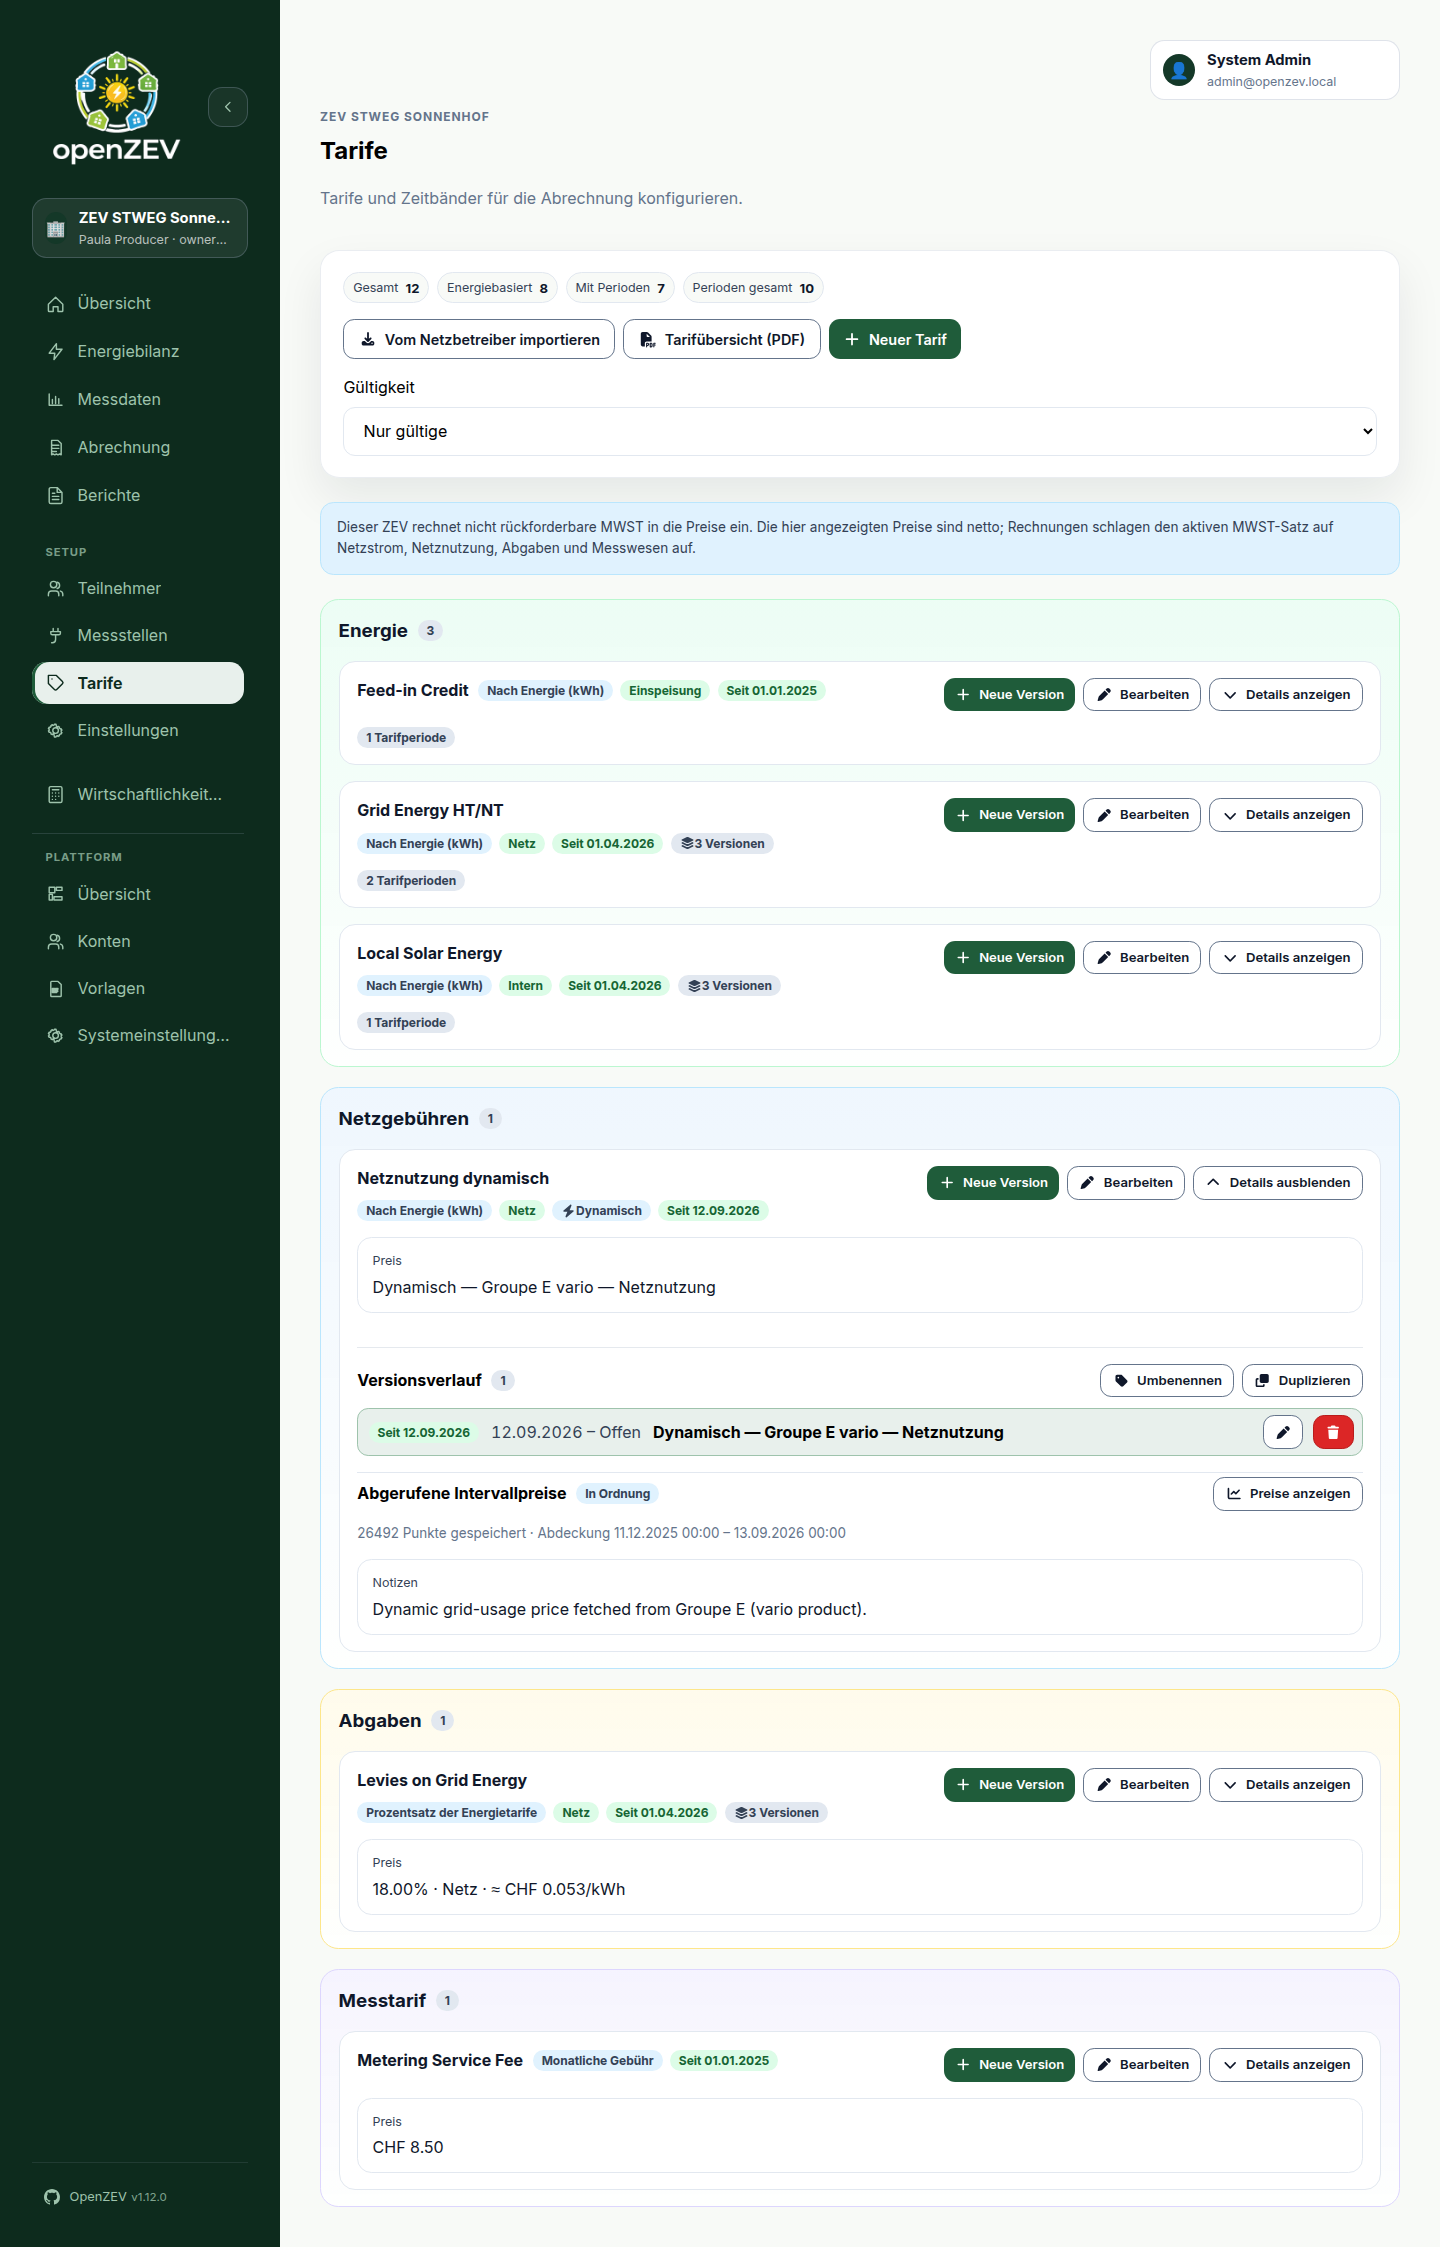
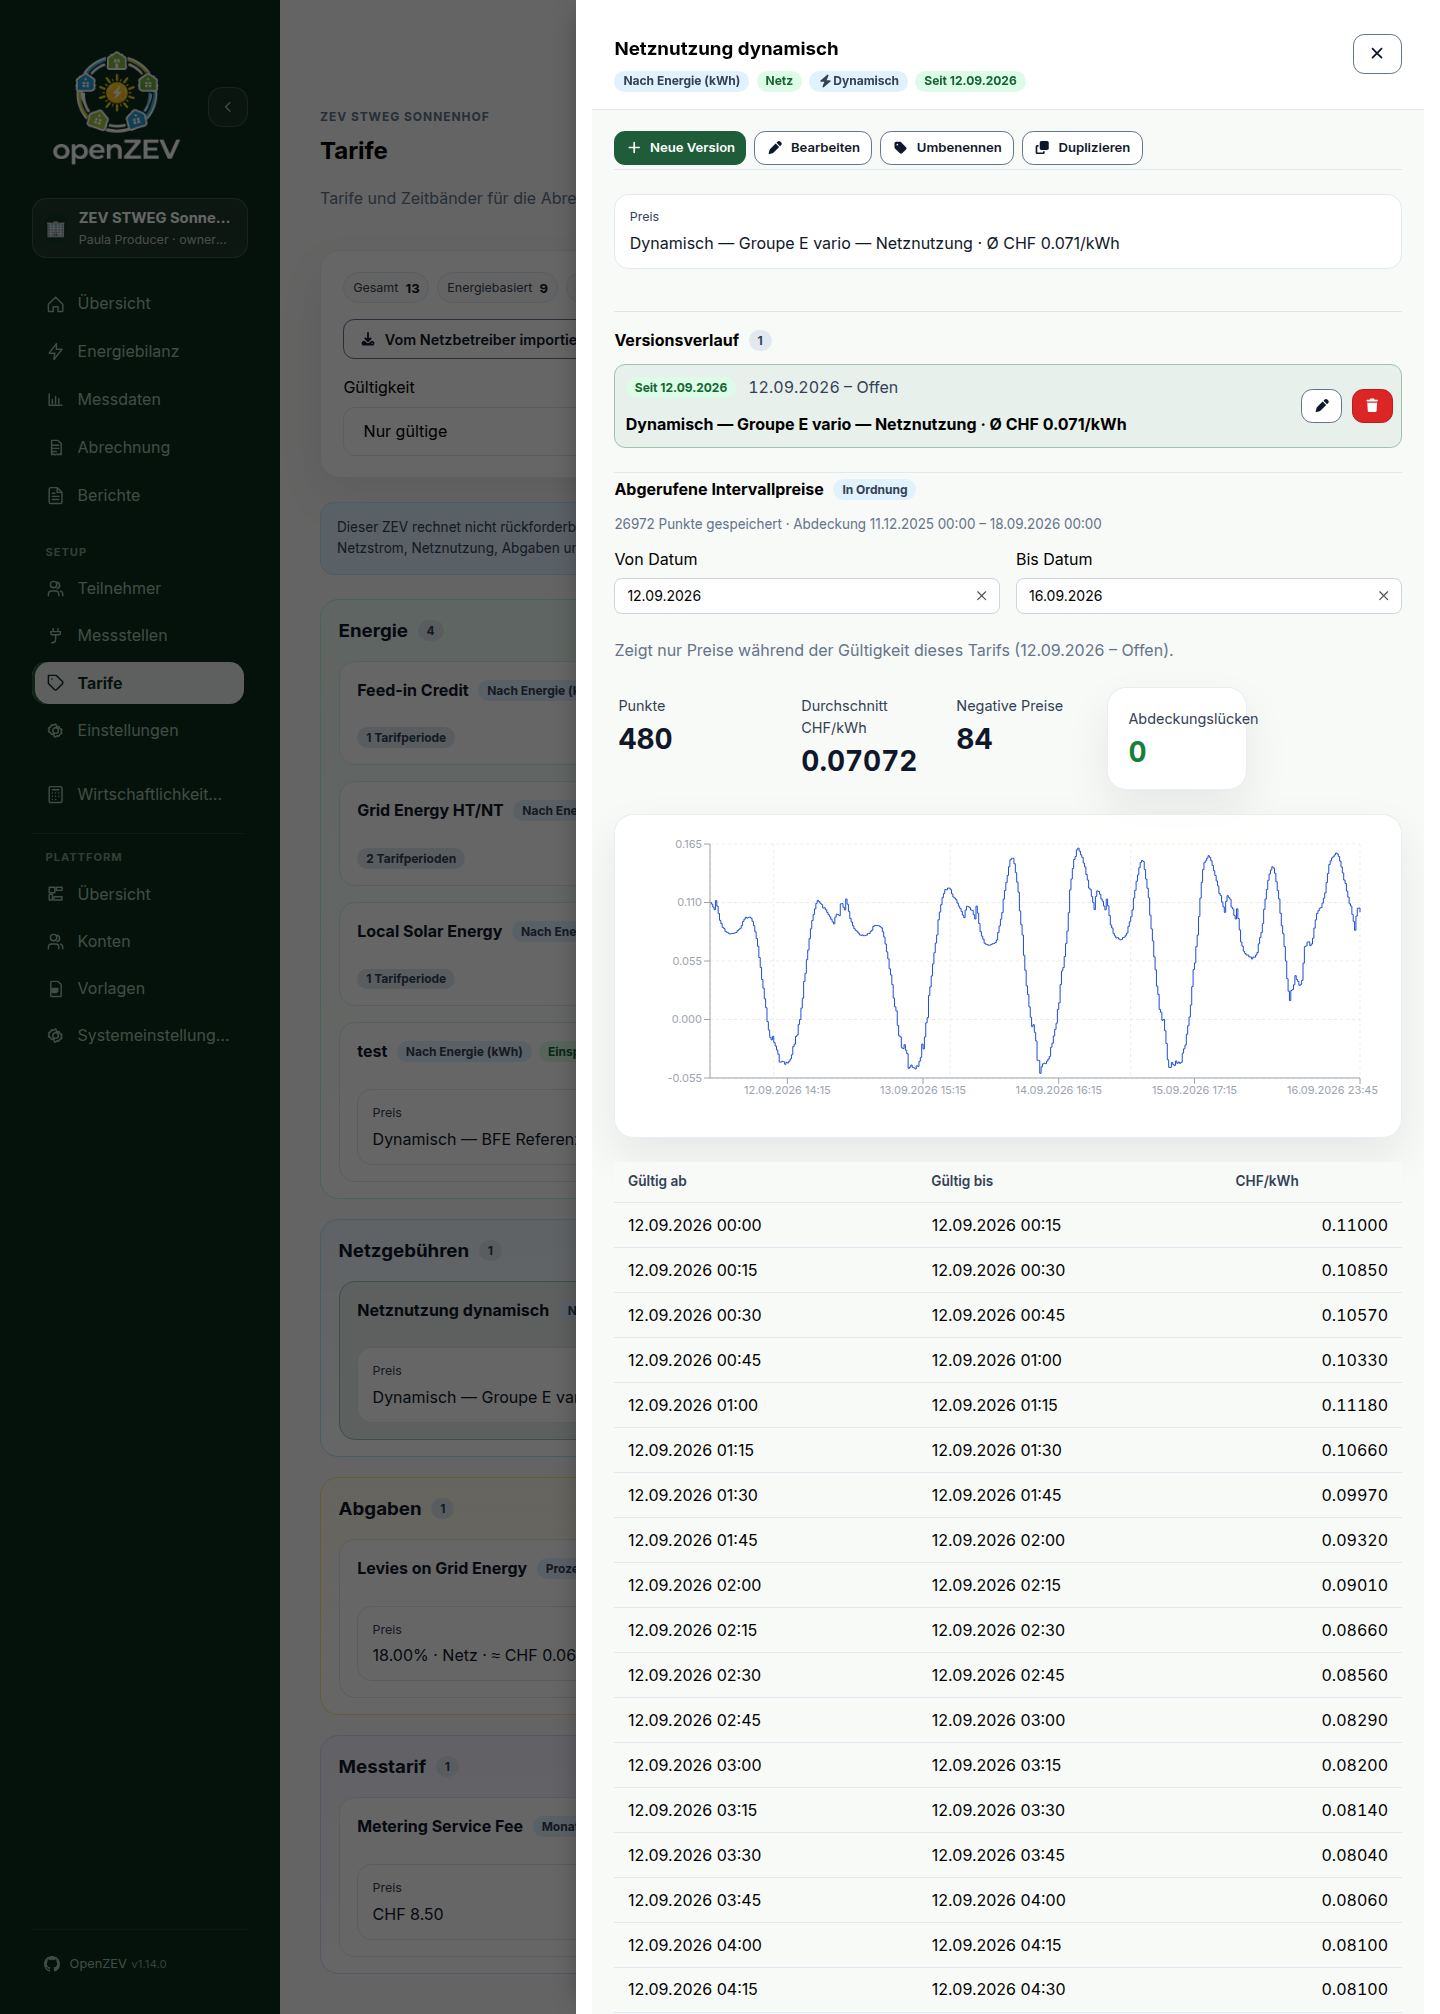
docs(tariffs): update user guide for the detail drawer, retire 07e
The tariff configuration chapter still described the pre-#729 in-card
expand ("Show details", version history and price chart living inside
the card, Rename/Duplicate "in the version history header"). Rewrites
the affected sections for the detail drawer: View details opens a
panel that shows a version other than the active one without changing
what the card reports, actions sit at the top of the panel, and the
open tariff/version now survives a reload via the URL.

frontend/screenshots/capture.spec.ts hadn't been updated for the same
redesign, so 07b and 07d were about to start timing out for anyone who
reruns npm run screenshots: both located their content inside
article.tariff-card, which the drawer no longer renders under (it's a
page-level sibling). Re-scoped both to the drawer. 07e captured a
fetched-price-history modal that no longer exists — that content is
now part of 07d's own drawer — so it's removed along with its image.

Regenerated 07-tariffs, 07b-tariff-versions and 07d-tariff-dynamic-
source against the dev stack; no other screenshot in the set changed.

diff --git a/frontend/screenshots/capture.spec.ts b/frontend/screenshots/capture.spec.ts
@@ -232,53 +232,52 @@ test.describe('User Guide Screenshots', () => {
     await screenshotFull(page, '07-tariffs')
   })
 
-  // 07b — A tariff's version history and price chart, both behind the expander
+  // 07b — A tariff's version history and price chart, both in its detail
+  // drawer (opened from the card, but rendered as a page-level sibling —
+  // not inside article.tariff-card — so it's located from `page`, not `card`).
   test('07b-tariff-versions', async ({ page }) => {
     await navigateTo(page, '/tariffs')
     const card = page.locator('article.tariff-card').filter({ hasText: 'Grid Energy HT/NT' }).first()
     await card.waitFor({ timeout: 10_000 })
-    // The expander is the only button on the card carrying aria-expanded.
+    // "View details" is the only button on the card carrying aria-expanded.
     await card.getByRole('button', { expanded: false }).click()
+    const drawer = page.locator('.tariff-drawer')
     // Waiting on the chart rather than the history: it renders only for a series
     // with more than one version, so it also asserts the seed still has them.
-    await card.locator('.tariff-price-history').waitFor({ timeout: 10_000 })
+    await drawer.locator('.tariff-price-history').waitFor({ timeout: 10_000 })
     await page.waitForTimeout(1000)  // let Recharts finish laying out
     await screenshotFull(page, '07b-tariff-versions')
   })
 
-  // 07d — A dynamic tariff's card, expanded to show its Dynamic badge and
-  // fetched-price section. Requires a tariff named "Netznutzung dynamisch"
-  // linked to a real dynamic source — seed_demo does not create this on its
-  // own; the checked-in screenshot was captured against a source manually
-  // configured for Groupe E's public vario grid endpoint
-  // (https://api.tariffs.groupe-e.ch/v2/tariffs, tariff_type=grid), created
-  // through the ordinary two-step wizard / POST .../dynamic-sources/ and
-  // linked to a tariff on the demo ZEV. Re-running this against a stack
-  // without that fixture will time out on the card lookup below.
+  // 07d — A dynamic tariff's detail drawer, showing its Dynamic badge and
+  // fetched-price section (stats, chart and point table render inline now,
+  // no separate click into a modal — see 07e's removal below). Requires a
+  // tariff named "Netznutzung dynamisch" linked to a real dynamic source —
+  // seed_demo does not create this on its own; the checked-in screenshot was
+  // captured against a source manually configured for Groupe E's public
+  // vario grid endpoint (https://api.tariffs.groupe-e.ch/v2/tariffs,
+  // tariff_type=grid), created through the ordinary two-step wizard / POST
+  // .../dynamic-sources/ and linked to a tariff on the demo ZEV. Re-running
+  // this against a stack without that fixture will time out on the card
+  // lookup below.
   test('07d-tariff-dynamic-source', async ({ page }) => {
     await navigateTo(page, '/tariffs')
     const card = page.locator('article.tariff-card').filter({ hasText: 'Netznutzung dynamisch' }).first()
     await card.waitFor({ timeout: 10_000 })
     await card.getByRole('button', { expanded: false }).click()
-    await card.locator('.tariff-period-section').filter({ hasText: /price|preis/i }).waitFor({ timeout: 10_000 })
-    await page.waitForTimeout(500)
+    const drawer = page.locator('.tariff-drawer')
+    await drawer.locator('.tariff-period-section').filter({ hasText: /price|preis/i }).waitFor({ timeout: 10_000 })
+    // Let the inline price-history panel's own chart finish laying out too —
+    // it fetches and renders as part of this same drawer now.
+    await page.waitForTimeout(1000)
     await screenshotFull(page, '07d-tariff-dynamic-source')
   })
 
-  // 07e — The fetched-price history modal opened from that same card: chart,
-  // stats, and coverage. Same fixture requirement as 07d above.
-  test('07e-dynamic-price-history', async ({ page }) => {
-    await navigateTo(page, '/tariffs')
-    const card = page.locator('article.tariff-card').filter({ hasText: 'Netznutzung dynamisch' }).first()
-    await card.waitFor({ timeout: 10_000 })
-    await card.getByRole('button', { expanded: false }).click()
-    const openHistory = card.getByRole('button', { name: /view prices|preise anzeigen|voir les prix|visualizza prezzi/i })
-    await openHistory.waitFor({ timeout: 10_000 })
-    await openHistory.click()
-    await page.waitForSelector('.kpi-row', { timeout: 10_000 })
-    await page.waitForTimeout(1000)  // let Recharts finish laying out
-    await screenshotFull(page, '07e-dynamic-price-history')
-  })
+  // 07e was the fetched-price history modal opened from a dynamic tariff's
+  // card: chart, stats, coverage. That modal is gone — the same content now
+  // renders inline in the drawer 07d already captures — so there is nothing
+  // left for a separate shot to show. Removed along with
+  // 07e-dynamic-price-history.png.
 
   // 08 — Invoices (period overview)
   test('08-invoices', async ({ page }) => {

diff --git a/docs/user-guide/07-tariff-configuration.md b/docs/user-guide/07-tariff-configuration.md
@@ -479,8 +479,8 @@ Default periods:
 
 Create custom periods if your ZEV has different peak hours:
 
-1. Edit a tariff
-2. Click **Add Period**
+1. Open the tariff's detail panel (**View details**)
+2. Click **Add Period** in the Tariff Periods section
 3. Enter:
    - **Name** — Period identifier (e.g., "Winter Peak")
    - **Start Time** — HH:MM (24-hour format)
@@ -523,7 +523,8 @@ Local Energy                                    ← one tariff, three versions
 
 ### Adding a New Version
 
-1. Find the tariff and click **New version**
+1. Find the tariff, click **View details** to open its detail panel, then
+   click **New version**
 2. Enter the date the new prices take effect (defaults to today)
 3. Adjust the prices (pre-filled from the current version)
 4. Click **Create**
@@ -544,24 +545,30 @@ both sides.
 ### Comparing Versions
 
 The Tariffs page shows **one card per tariff**, displaying what it costs *today*
-rather than a card per version. A badge tells you how many versions it has. Click
-**Show details** for the rest.
+rather than a card per version. A badge tells you how many versions it has.
+Click **View details** to open a panel on the right with everything else:
+version history, the price chart, price bands, and notes.
 
-**Version history** lists every version with its window and price. Click one to
-make the card show that version — its price bands and periods switch to the ones
-in force then, and a **Viewing an older version** badge appears so you can't
-mistake a historical rate for the current one. Click the active version to go
+**Version history** lists every version with its window and price. Click one
+to make the *panel* show that version — its price bands switch to the ones in
+force then, and a **Viewing an older version** badge appears so you can't
+mistake a historical rate for the current one. The card behind the panel keeps
+showing the active version throughout, so switching versions to look something
+up never changes what the list itself reports. Click the active version to go
 back.
 
 Each row has its own edit and delete buttons, because correcting a superseded
 version's end date is a normal follow-up to adding a new one.
 
+The panel stays open across a page reload or a shared link — the URL records
+which tariff and version you're looking at.
+
 ![Tariff version history and price chart](screenshots/07b-tariff-versions.png)
 
 ### Price History
 
-Once a tariff has **more than one version**, expanding it also charts how its
-price moved over time.
+Once a tariff has **more than one version**, its detail panel also charts how
+its price moved over time.
 
 - The line is **stepped**, not sloped — a price holds for its whole window and
   then jumps. A sloped line would suggest it drifted between two Januaries.
@@ -577,12 +584,12 @@ price moved over time.
 
 Renaming is done for the **whole tariff**, not per version — the name is what
 holds the versions together, so renaming just one would split it into two
-unrelated tariffs. **Rename** sits in the version history header, and tells you
-how many versions it will affect.
+unrelated tariffs. **Rename** sits at the top of the detail panel, and tells
+you how many versions it will affect.
 
 ### Duplicating
 
-Use **Duplicate** (also in the version history header) to create a *different*
+Use **Duplicate** (also at the top of the detail panel) to create a *different*
 tariff starting from an existing one's numbers. It asks for a new name and leaves
 the original untouched. (Use **New version** instead when the prices of the
 *same* tariff have changed.)
